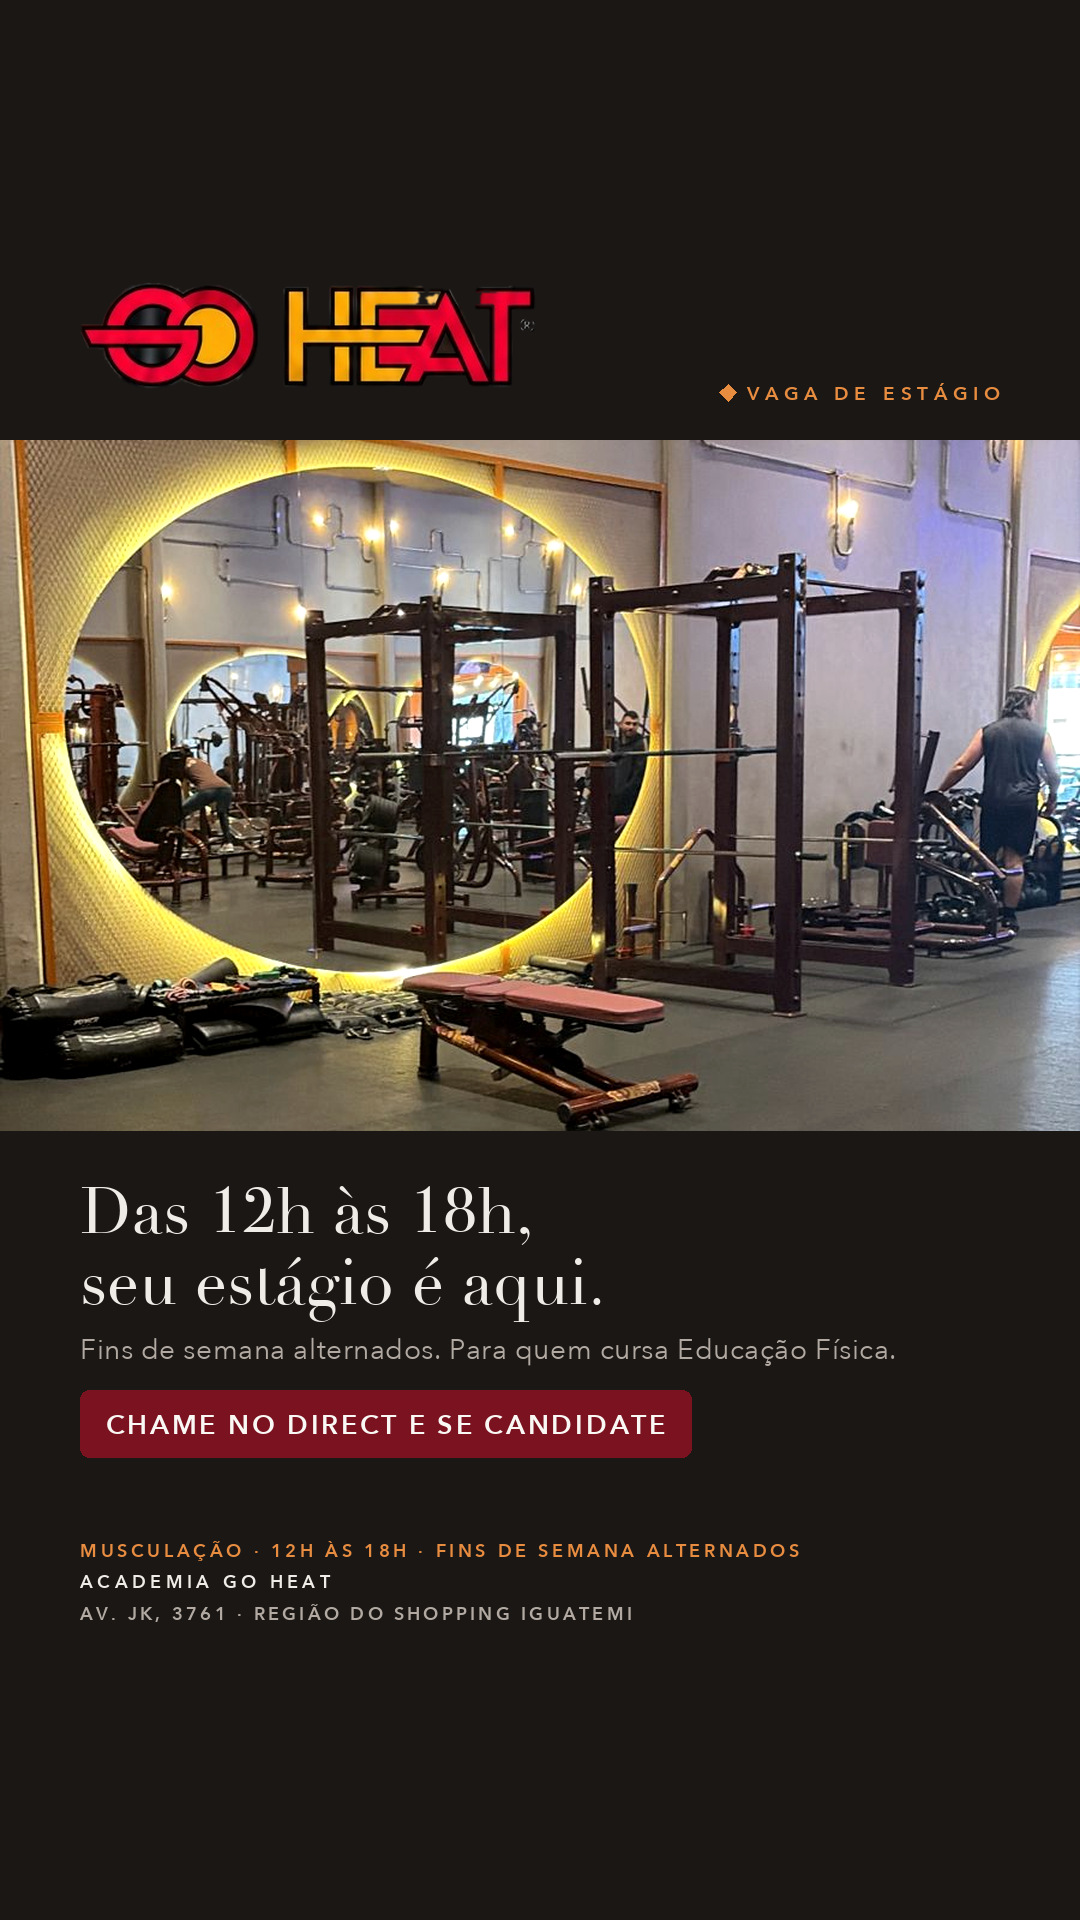
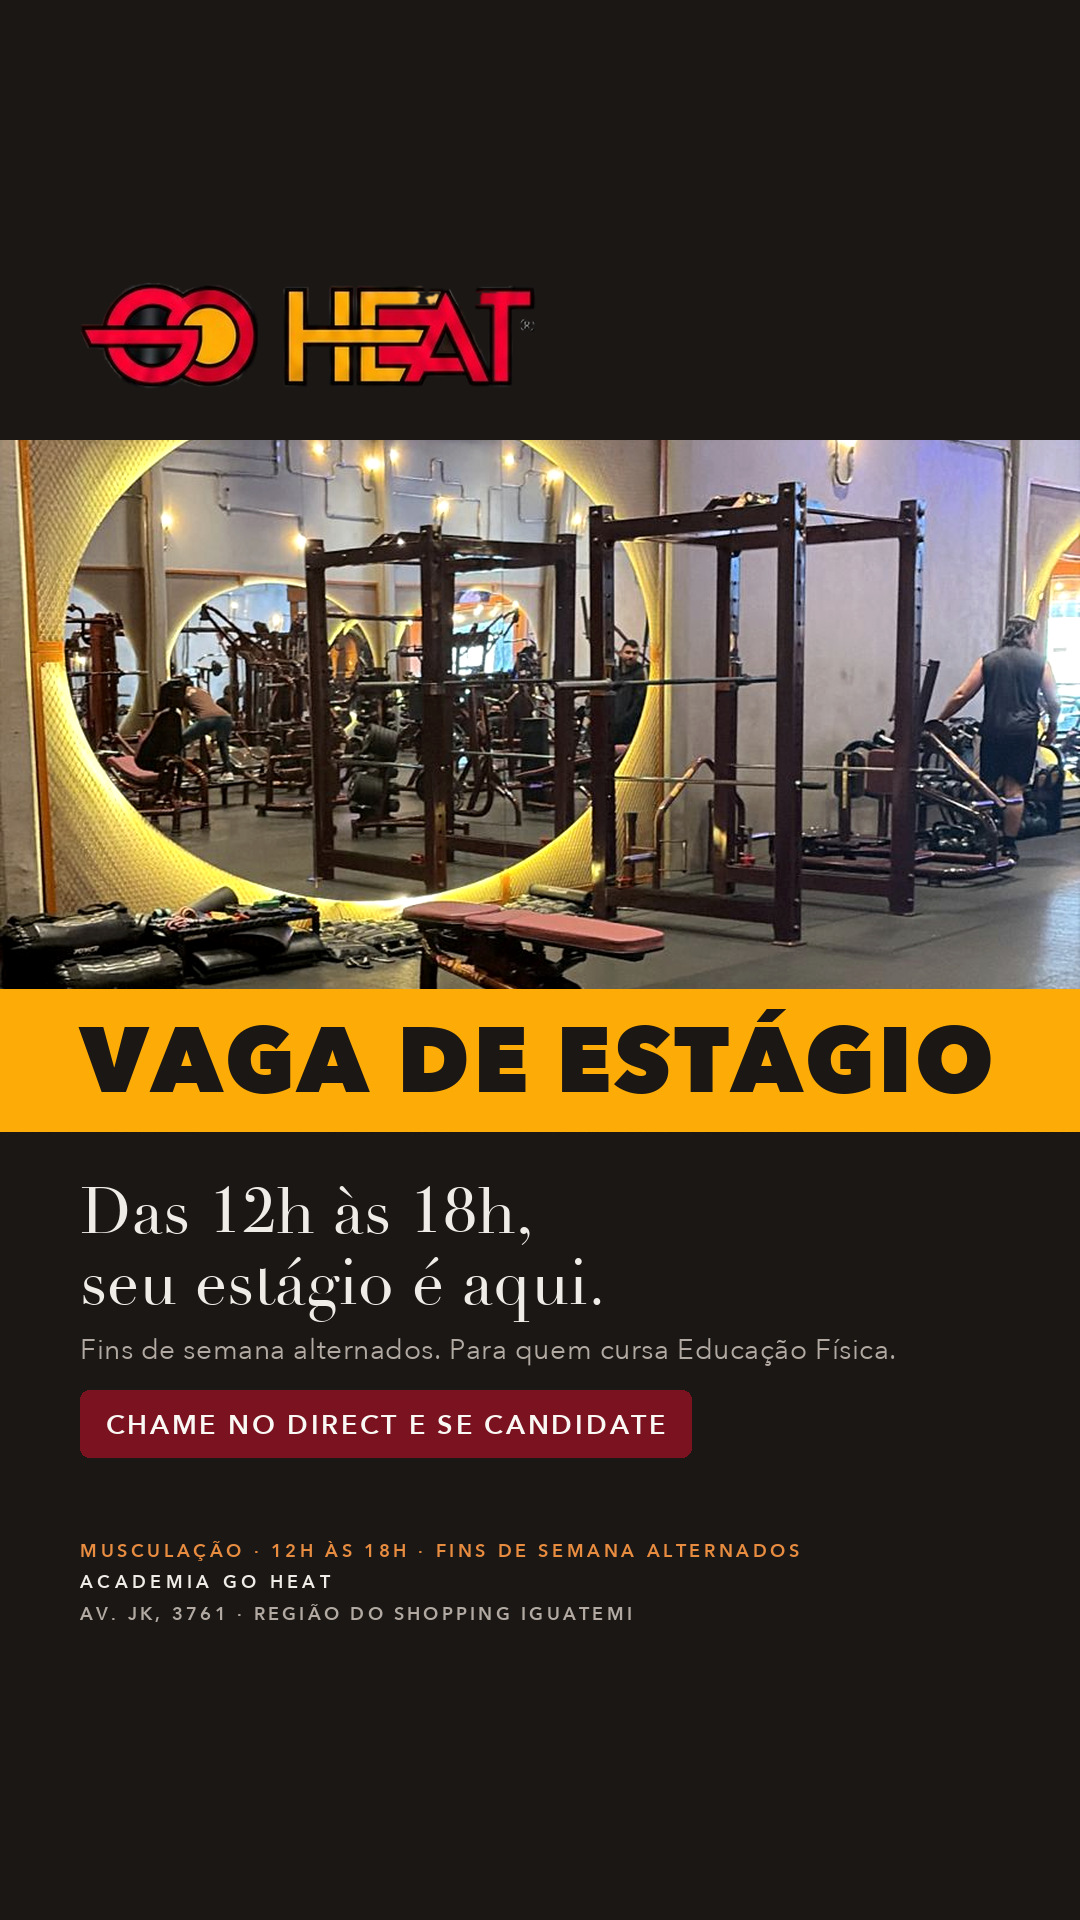
Go Heat: faixa VAGA DE ESTAGIO grande nas 6 opcoes + foto da VAGA08 recortada

Changed region(s): [[0.0, 0.2188, 1.0, 0.5938]]

diff --git a/go-heat/vaga-estagio/index.html b/go-heat/vaga-estagio/index.html
@@ -79,15 +79,15 @@ footer{margin-top:48px;padding-top:20px;border-top:1px solid var(--line);
   </ul>
 </header>
 
-<div class="nota"><p>Todas na versão escura, com a logo da academia, e convidam a pessoa a <b>chamar no Direct</b> para se candidatar, que é onde a campanha recebe as conversas.
+<div class="nota"><p>Todas na versão escura, com a logo da academia e a faixa amarela VAGA DE ESTÁGIO bem grande, e convidam a pessoa a <b>chamar no Direct</b> para se candidatar, que é onde a campanha recebe as conversas.
 As fotos são do salão da própria academia.</p></div>
 
 <section class="opcao">
   <div class="topo"><span class="num">OPÇÃO 1</span><h2>Suas tardes viram experiência.</h2></div>
   <p class="ideia">Puxa pelo horário: quem estuda de manhã ou à noite tem a tarde livre.</p>
   <div class="artes">
-    <figure><img src="artes-v2/VAGA05_TARDES_1x1.jpg" alt="Opção 1, feed: corredor de máquinas, com o título Suas tardes viram experiência." loading="lazy"><figcaption>feed · 1:1</figcaption></figure>
-    <figure><img src="artes-v2/VAGA05_TARDES_9x16.jpg" alt="Opção 1, story" loading="lazy"><figcaption>story · 9:16</figcaption></figure>
+    <figure><img src="artes-v2/VAGA05_TARDES_1x1.jpg?v=3" alt="Opção 1, feed: corredor de máquinas, com o título Suas tardes viram experiência." loading="lazy"><figcaption>feed · 1:1</figcaption></figure>
+    <figure><img src="artes-v2/VAGA05_TARDES_9x16.jpg?v=3" alt="Opção 1, story" loading="lazy"><figcaption>story · 9:16</figcaption></figure>
   </div>
 </section>
 
@@ -95,8 +95,8 @@ As fotos são do salão da própria academia.</p></div>
   <div class="topo"><span class="num">OPÇÃO 2</span><h2>Aprenda onde o treino acontece.</h2></div>
   <p class="ideia">O salão inteiro na foto mostra o tamanho da academia onde o estudante vai trabalhar.</p>
   <div class="artes">
-    <figure><img src="artes-v2/VAGA06_ONDE_1x1.jpg" alt="Opção 2, feed: salão amplo da academia, com o título Aprenda onde o treino acontece." loading="lazy"><figcaption>feed · 1:1</figcaption></figure>
-    <figure><img src="artes-v2/VAGA06_ONDE_9x16.jpg" alt="Opção 2, story" loading="lazy"><figcaption>story · 9:16</figcaption></figure>
+    <figure><img src="artes-v2/VAGA06_ONDE_1x1.jpg?v=3" alt="Opção 2, feed: salão amplo da academia, com o título Aprenda onde o treino acontece." loading="lazy"><figcaption>feed · 1:1</figcaption></figure>
+    <figure><img src="artes-v2/VAGA06_ONDE_9x16.jpg?v=3" alt="Opção 2, story" loading="lazy"><figcaption>story · 9:16</figcaption></figure>
   </div>
 </section>
 
@@ -104,8 +104,8 @@ As fotos são do salão da própria academia.</p></div>
   <div class="topo"><span class="num">OPÇÃO 3</span><h2>Das 12h às 18h, seu estágio é aqui.</h2></div>
   <p class="ideia">O horário logo no título: quem só pode à tarde já se reconhece na primeira linha.</p>
   <div class="artes">
-    <figure><img src="artes-v2/VAGA07_HORARIO_1x1.jpg" alt="Opção 3, feed: área de racks com o espelho iluminado, com o título Das 12h às 18h, seu estágio é aqui." loading="lazy"><figcaption>feed · 1:1</figcaption></figure>
-    <figure><img src="artes-v2/VAGA07_HORARIO_9x16.jpg" alt="Opção 3, story" loading="lazy"><figcaption>story · 9:16</figcaption></figure>
+    <figure><img src="artes-v2/VAGA07_HORARIO_1x1.jpg?v=3" alt="Opção 3, feed: área de racks com o espelho iluminado, com o título Das 12h às 18h, seu estágio é aqui." loading="lazy"><figcaption>feed · 1:1</figcaption></figure>
+    <figure><img src="artes-v2/VAGA07_HORARIO_9x16.jpg?v=3" alt="Opção 3, story" loading="lazy"><figcaption>story · 9:16</figcaption></figure>
   </div>
 </section>
 
@@ -113,8 +113,8 @@ As fotos são do salão da própria academia.</p></div>
   <div class="topo"><span class="num">OPÇÃO 4</span><h2>Do caderno para o salão.</h2></div>
   <p class="ideia">Mostra o trabalho de verdade: professor orientando aluno na máquina. Fala da vontade de sair da teoria.</p>
   <div class="artes">
-    <figure><img src="artes-v2/VAGA08_CADERNO_1x1.jpg" alt="Opção 4, feed: professor orientando aluno na máquina, com o título Do caderno para o salão." loading="lazy"><figcaption>feed · 1:1</figcaption></figure>
-    <figure><img src="artes-v2/VAGA08_CADERNO_9x16.jpg" alt="Opção 4, story" loading="lazy"><figcaption>story · 9:16</figcaption></figure>
+    <figure><img src="artes-v2/VAGA08_CADERNO_1x1.jpg?v=3" alt="Opção 4, feed: professor orientando aluno na máquina, com o título Do caderno para o salão." loading="lazy"><figcaption>feed · 1:1</figcaption></figure>
+    <figure><img src="artes-v2/VAGA08_CADERNO_9x16.jpg?v=3" alt="Opção 4, story" loading="lazy"><figcaption>story · 9:16</figcaption></figure>
   </div>
 </section>
 
@@ -122,8 +122,8 @@ As fotos são do salão da própria academia.</p></div>
   <div class="topo"><span class="num">OPÇÃO 5</span><h2>Experiência que conta no currículo.</h2></div>
   <p class="ideia">Fala do que o estudante leva da vaga: prática que vale na carreira.</p>
   <div class="artes">
-    <figure><img src="artes-v2/VAGA09_CURRICULO_1x1.jpg" alt="Opção 5, feed: máquinas de musculação, com o título Experiência que conta no currículo." loading="lazy"><figcaption>feed · 1:1</figcaption></figure>
-    <figure><img src="artes-v2/VAGA09_CURRICULO_9x16.jpg" alt="Opção 5, story" loading="lazy"><figcaption>story · 9:16</figcaption></figure>
+    <figure><img src="artes-v2/VAGA09_CURRICULO_1x1.jpg?v=3" alt="Opção 5, feed: máquinas de musculação, com o título Experiência que conta no currículo." loading="lazy"><figcaption>feed · 1:1</figcaption></figure>
+    <figure><img src="artes-v2/VAGA09_CURRICULO_9x16.jpg?v=3" alt="Opção 5, story" loading="lazy"><figcaption>story · 9:16</figcaption></figure>
   </div>
 </section>
 
@@ -131,8 +131,8 @@ As fotos são do salão da própria academia.</p></div>
   <div class="topo"><span class="num">OPÇÃO 6</span><h2>Faça parte da equipe Go Heat.</h2></div>
   <p class="ideia">Convite direto, com o grafite da marca ao fundo.</p>
   <div class="artes">
-    <figure><img src="artes-v2/VAGA10_EQUIPE_1x1.jpg" alt="Opção 6, feed: aluno treinando em frente ao grafite Go Heat, com o título Faça parte da equipe Go Heat." loading="lazy"><figcaption>feed · 1:1</figcaption></figure>
-    <figure><img src="artes-v2/VAGA10_EQUIPE_9x16.jpg" alt="Opção 6, story" loading="lazy"><figcaption>story · 9:16</figcaption></figure>
+    <figure><img src="artes-v2/VAGA10_EQUIPE_1x1.jpg?v=3" alt="Opção 6, feed: aluno treinando em frente ao grafite Go Heat, com o título Faça parte da equipe Go Heat." loading="lazy"><figcaption>feed · 1:1</figcaption></figure>
+    <figure><img src="artes-v2/VAGA10_EQUIPE_9x16.jpg?v=3" alt="Opção 6, story" loading="lazy"><figcaption>story · 9:16</figcaption></figure>
   </div>
 </section>
 
